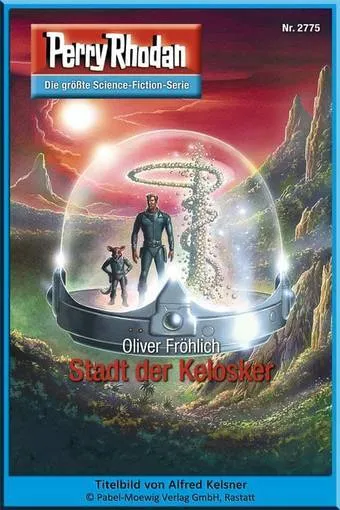
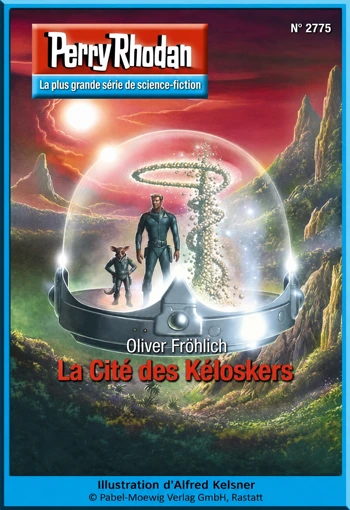
fix: translate covers 2773-2782

diff --git a/src/content/chapitres/de-2781.md b/src/content/chapitres/de-2781.md
@@ -4,11 +4,11 @@ cycleNumber: 38
 chapterNumber: 2781
 type: translation
 originalTitle: "SHIVAS FAUST"
-cover: "/images/covers/de-2781.webp"
+cover: "/images/covers/de-2781.webp?v=20261117-fr"
 auteur: "Michelle Stern"
 parution: "2014-12-19"
 statut: traduit
-titleFr: "Perry 2781 - LE POING DE SHIVA"
+titleFr: "Le Poing de Shiva"
 ---
 
 Les Haluters avant l’anéantissement – Le Lordamiral Monkey se jette dans l’action

diff --git a/src/content/chapitres/de-2778.md b/src/content/chapitres/de-2778.md
@@ -4,11 +4,11 @@ cycleNumber: 38
 chapterNumber: 2778
 type: translation
 originalTitle: "Der Weg nach Wanderer"
-cover: "/images/covers/de-2778.webp"
+cover: "/images/covers/de-2778.webp?v=20261117-fr"
 auteur: "Michael Marcus Thurner"
 parution: "2014-11-28"
 statut: traduit
-titleFr: "Perry 2778 - Le chemin vers Wanderer"
+titleFr: "Le Chemin vers Wanderer"
 ---
 
 La Voie vers Wanderer

diff --git a/src/content/chapitres/de-2779.md b/src/content/chapitres/de-2779.md
@@ -4,7 +4,7 @@ cycleNumber: 38
 chapterNumber: 2779
 type: translation
 originalTitle: "Schattenspiel der Ewigkeit"
-cover: "/images/covers/de-2779.webp"
+cover: "/images/covers/de-2779.webp?v=20261117-fr"
 auteur: "Michael Marcus Thurner"
 parution: "2014-12-05"
 statut: traduit

diff --git a/src/content/chapitres/de-2773.md b/src/content/chapitres/de-2773.md
@@ -4,7 +4,7 @@ cycleNumber: 38
 chapterNumber: 2773
 type: translation
 originalTitle: "Der Kristalline Richter"
-cover: "/images/covers/de-2773.webp"
+cover: "/images/covers/de-2773.webp?v=20261117-fr"
 auteur: "Michael Marcus Thurner"
 parution: "2014-10-24"
 statut: traduit

diff --git a/src/content/chapitres/de-2777.md b/src/content/chapitres/de-2777.md
@@ -4,7 +4,7 @@ cycleNumber: 38
 chapterNumber: 2777
 type: translation
 originalTitle: "Flucht aus Allerorten"
-cover: "/images/covers/de-2777.webp"
+cover: "/images/covers/de-2777.webp?v=20261117-fr"
 auteur: "Michael Marcus Thurner"
 parution: "2014-11-21"
 statut: traduit

diff --git a/src/content/chapitres/de-2775.md b/src/content/chapitres/de-2775.md
@@ -4,7 +4,7 @@ cycleNumber: 38
 chapterNumber: 2775
 type: translation
 originalTitle: "Stadt der Kelosker"
-cover: "/images/covers/de-2775.webp"
+cover: "/images/covers/de-2775.webp?v=20261117-fr"
 auteur: "Oliver Fröhlich"
 parution: "2014-11-07"
 statut: traduit

diff --git a/src/content/chapitres/de-2782.md b/src/content/chapitres/de-2782.md
@@ -4,7 +4,7 @@ cycleNumber: 38
 chapterNumber: 2782
 type: translation
 originalTitle: "Duell auf Everblack"
-cover: "/images/covers/de-2782.webp"
+cover: "/images/covers/de-2782.webp?v=20261117-fr"
 auteur: "Susan Schwartz"
 parution: "2014-12-26"
 statut: traduit

diff --git a/src/content/chapitres/de-2776.md b/src/content/chapitres/de-2776.md
@@ -4,7 +4,7 @@ cycleNumber: 38
 chapterNumber: 2776
 type: translation
 originalTitle: "Störfaktor Gholdorodyn"
-cover: "/images/covers/de-2776.webp"
+cover: "/images/covers/de-2776.webp?v=20261117-fr"
 auteur: "Uwe Anton"
 parution: "2014-11-14"
 statut: traduit

diff --git a/src/content/chapitres/de-2774.md b/src/content/chapitres/de-2774.md
@@ -4,7 +4,7 @@ cycleNumber: 38
 chapterNumber: 2774
 type: translation
 originalTitle: "Der Kosmoglobus"
-cover: "/images/covers/de-2774.webp"
+cover: "/images/covers/de-2774.webp?v=20261117-fr"
 auteur: "Hubert Haensel"
 parution: "2014-10-31"
 statut: traduit

diff --git a/src/content/chapitres/de-2780.md b/src/content/chapitres/de-2780.md
@@ -4,7 +4,7 @@ cycleNumber: 38
 chapterNumber: 2780
 type: translation
 originalTitle: "Haluts Weg"
-cover: "/images/covers/de-2780.webp"
+cover: "/images/covers/de-2780.webp?v=20261117-fr"
 auteur: "Verena Themsen"
 parution: "2014-12-12"
 statut: traduit
